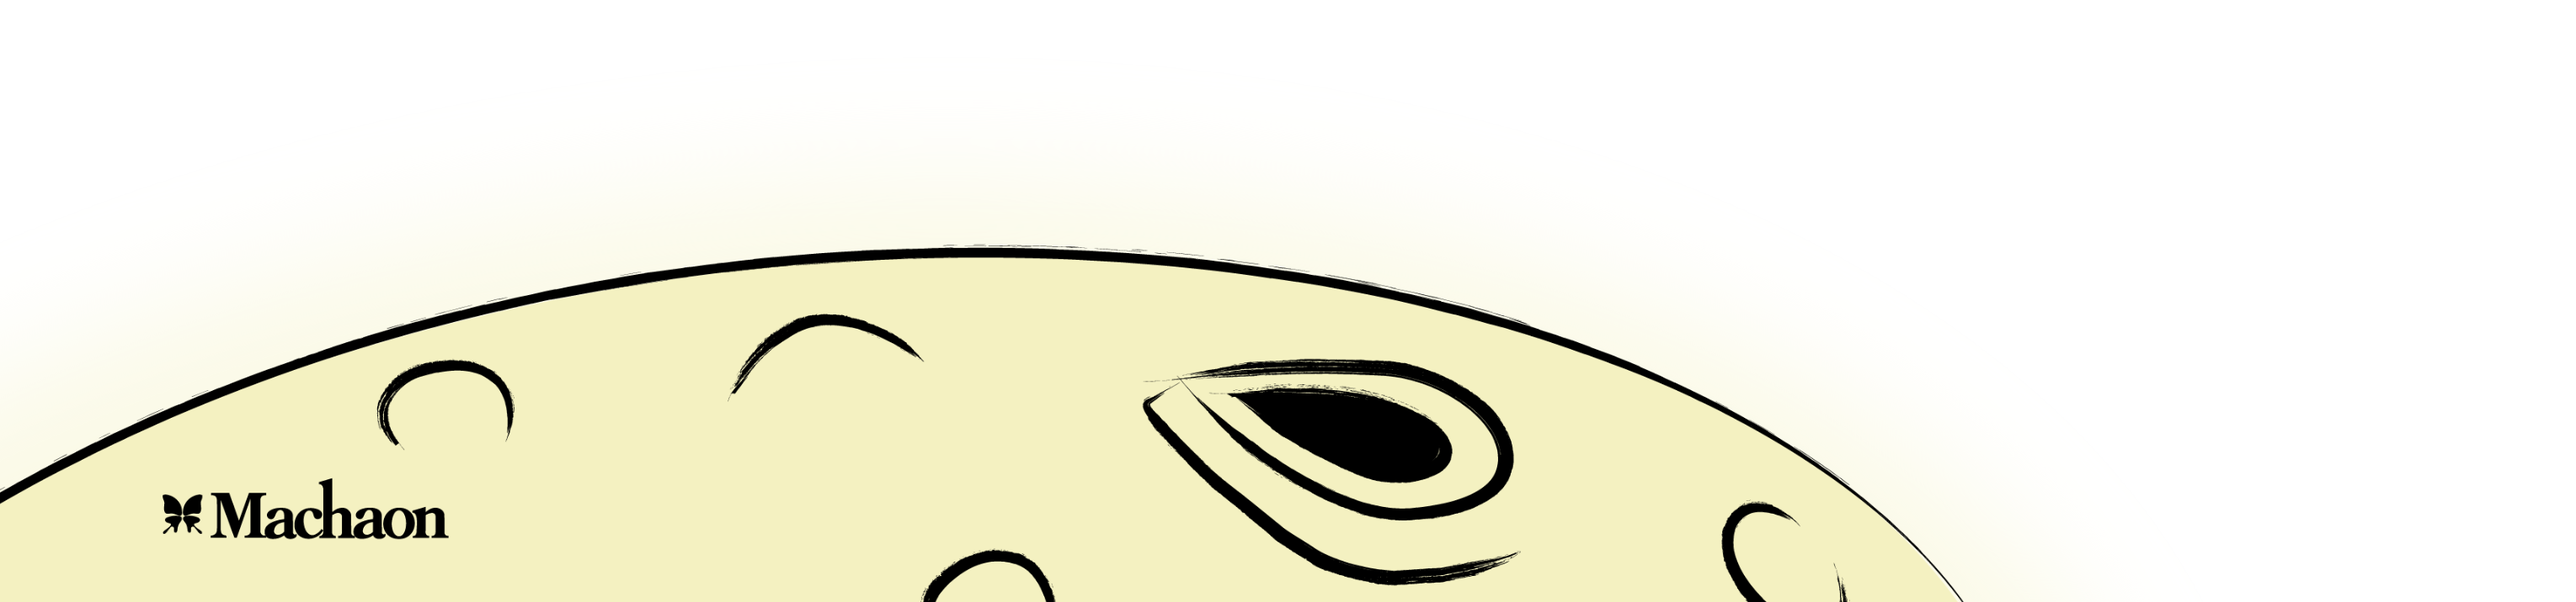
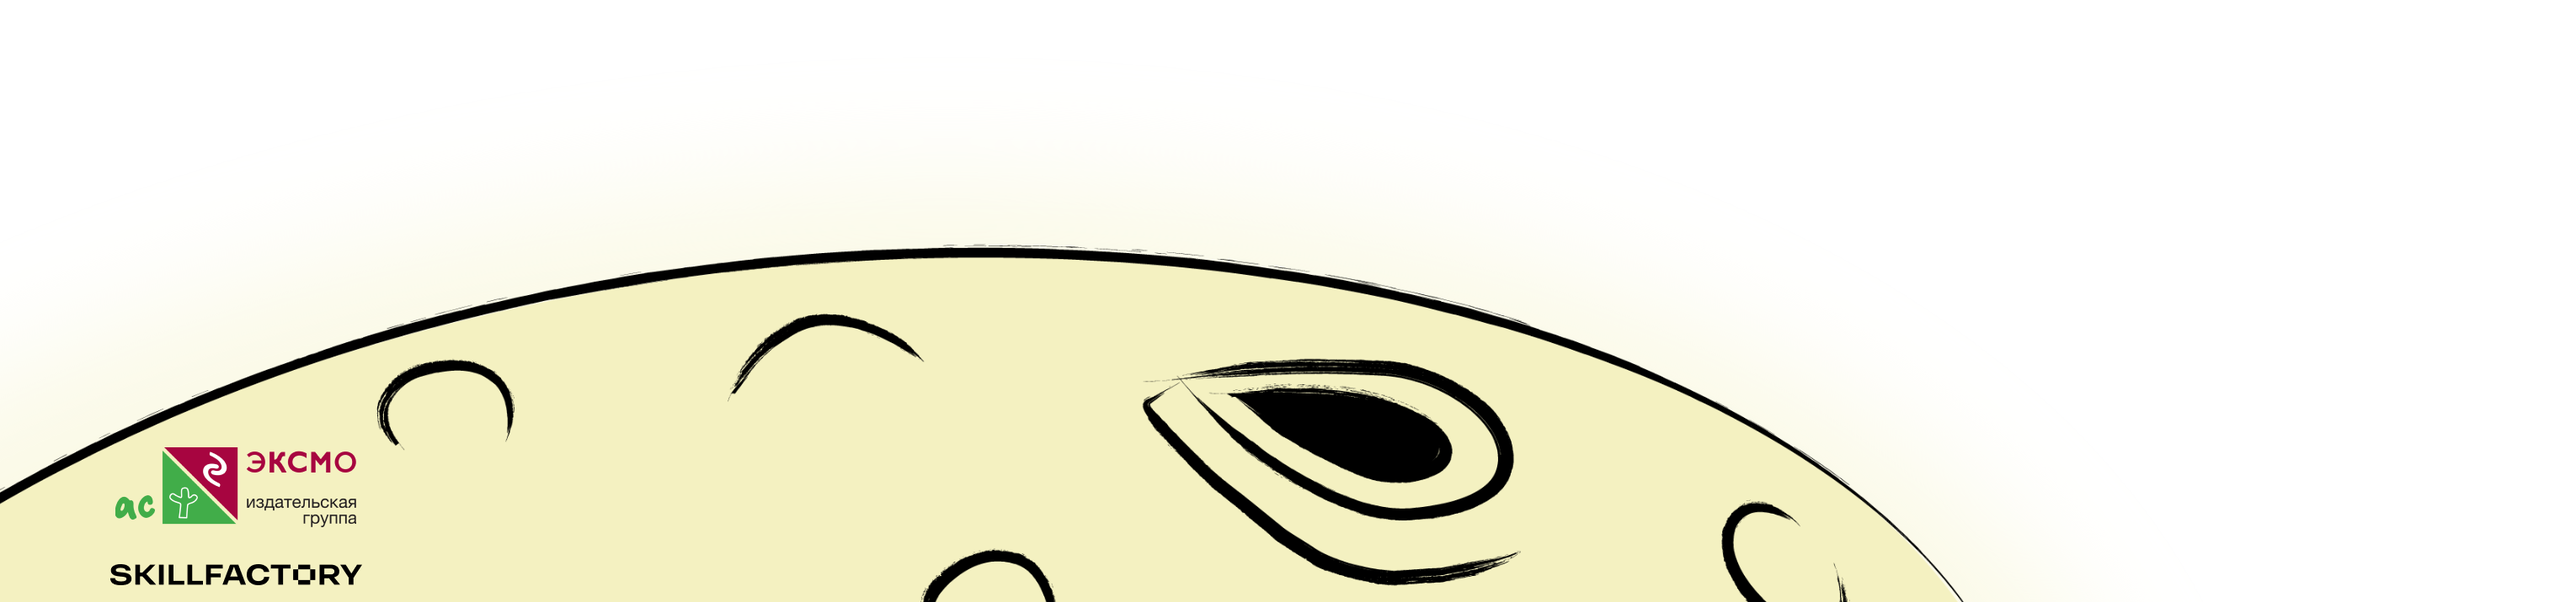
//
//

Changed region(s): [[0.0311, 0.7374, 0.1863, 0.9832]]

diff --git a/style/style.css b/style/style.css
@@ -39,9 +39,20 @@ body {
   bottom: 110vh;
 }
 .logo {
-  width: 386px;
-  height: 80px;
+  width: 286px;
+  height: 95px;
   background-image: url(../img/logo.png);
+  background-size: contain;
+  background-repeat: no-repeat;
+  position: fixed;
+  bottom: 70px;
+  left: 55px;
+  z-index: -1;
+}
+.logoSF {
+  width: 299px;
+  height: 25px;
+  background-image: url(../img/SkillFactory-01.png);
   background-size: contain;
   background-repeat: no-repeat;
   position: fixed;
@@ -1313,6 +1324,18 @@ body {
   }
 }
 @media (max-width: 2048px) {
+  .logo {
+    width: 200px;
+    height: 57px;
+    bottom: 47px;
+    left: 58px;
+  }
+  .logoSF {
+    width: 299px;
+    height: 15px;
+    bottom: 20px;
+    left: 50px;
+  }
   .container_keyboard {
     width: 68vw;
     height: 58vh;
@@ -1460,8 +1483,16 @@ body {
 }
 @media (max-width: 1440px) {
   .logo {
-    width: 323px;
-    height: 66px;
+    width: 200px;
+    height: 54px;
+    bottom: 47px;
+    left: 79px;
+  }
+  .logoSF {
+    width: 299px;
+    height: 15px;
+    bottom: 20px;
+    left: 68px;
   }
   .stars1 {
     transform: scale(0.2);

diff --git a/index.html b/index.html
@@ -24,6 +24,7 @@
           <button class="navigation__keyboard"></button>
         </nav>
         <div class="logo"></div>
+        <div class="logoSF"></div>
         <div class="star">
           <div class="stars1"></div>
           <div class="stars1_blur"></div>
